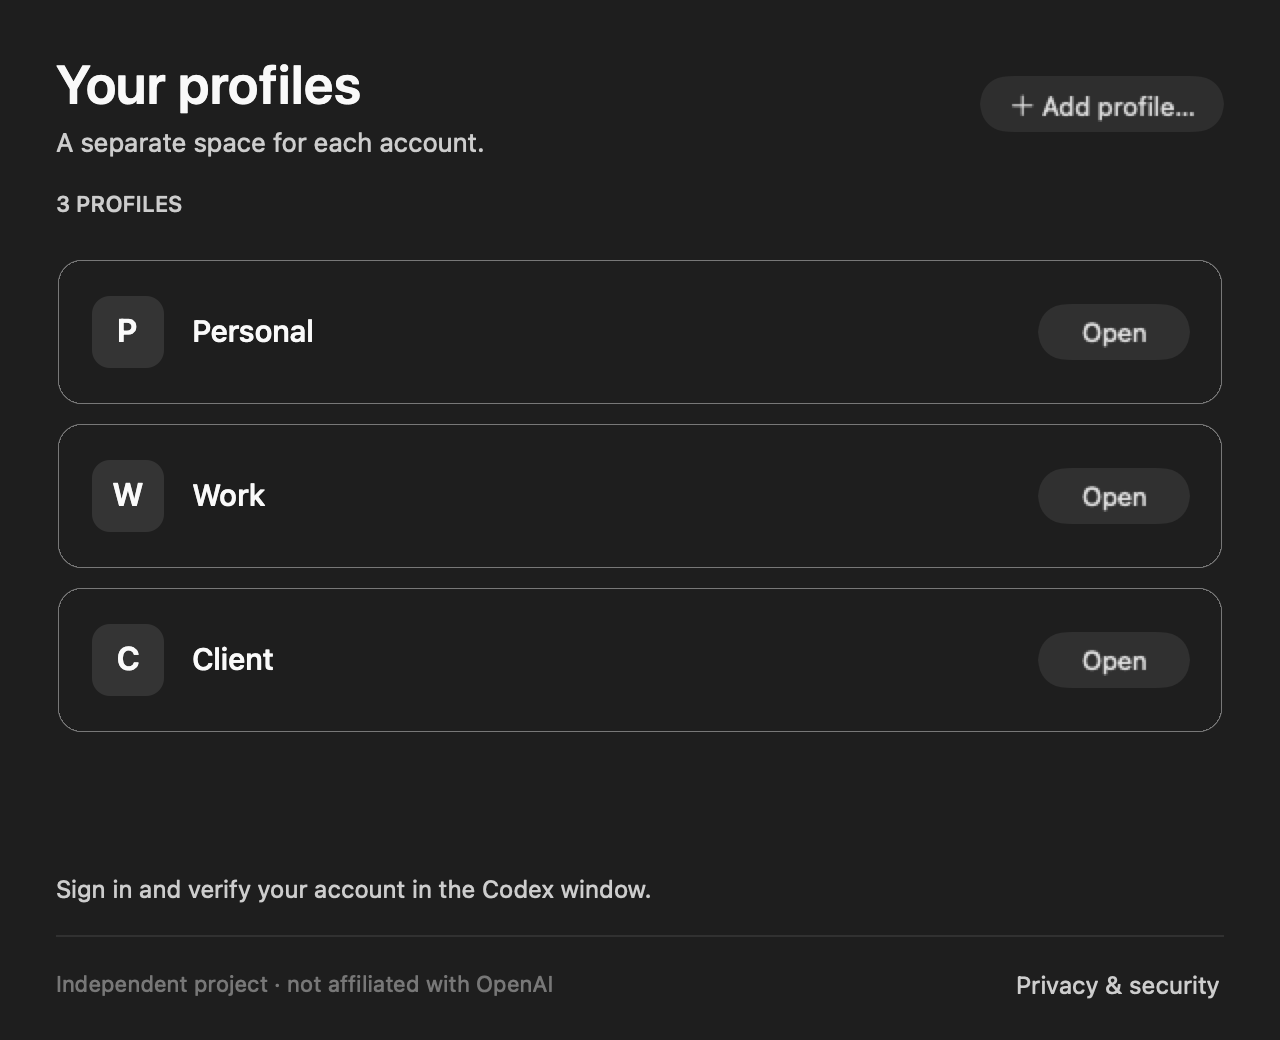
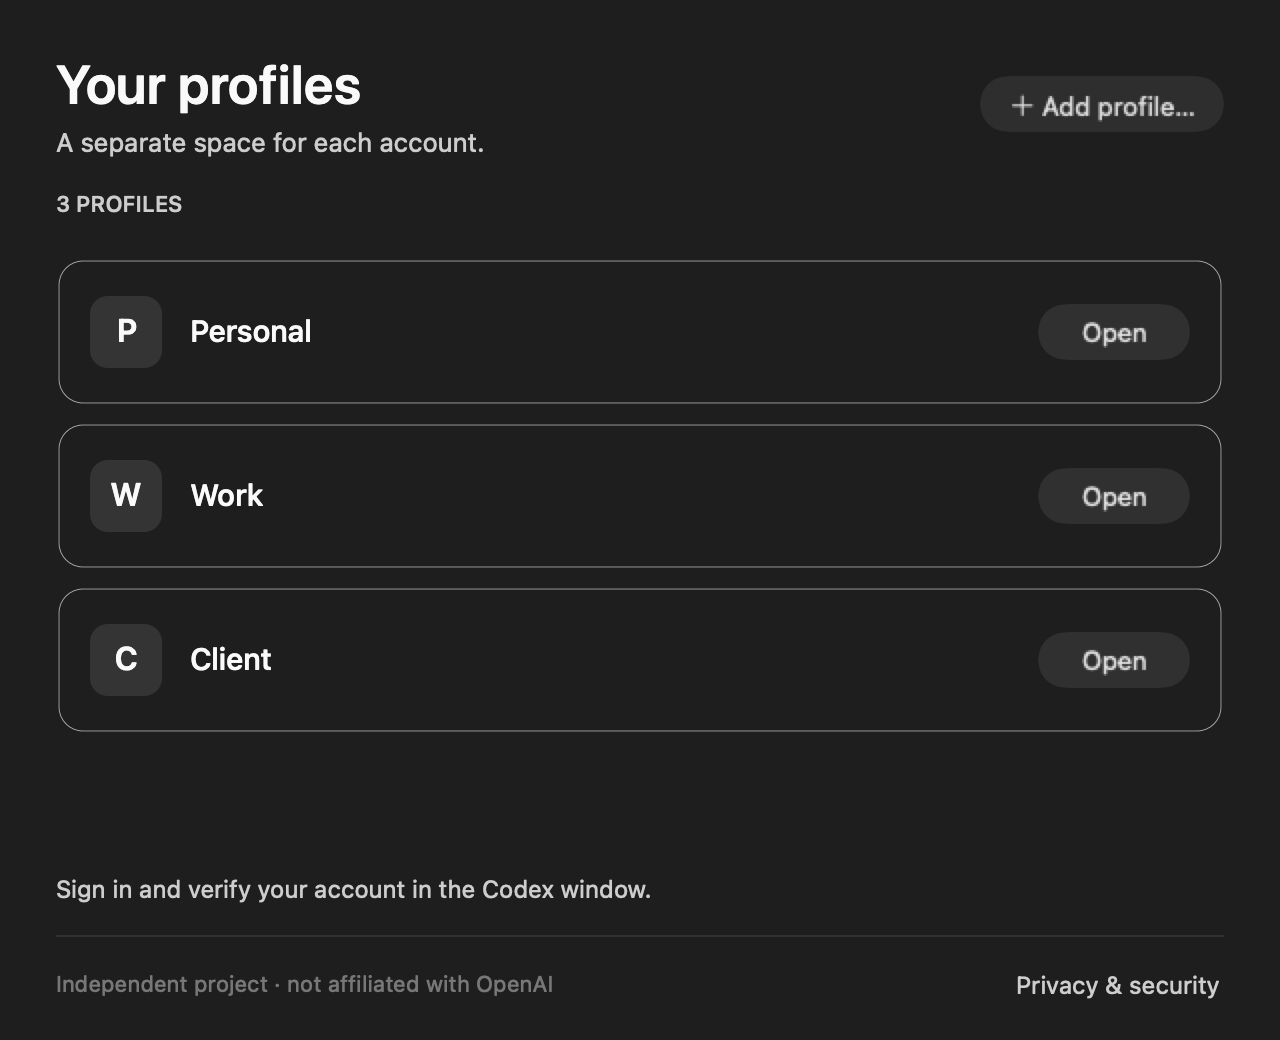
Fix broken native profile borders with an explicit closed frame

diff --git a/Sources/main.swift b/Sources/main.swift
@@ -2,6 +2,24 @@
 import AppKit
 import Security
 
+/// Draw the entire row frame explicitly; NSBox's native border can leave gaps on macOS.
+final class ProfileCardView: NSView {
+    override func draw(_ dirtyRect: NSRect) {
+        super.draw(dirtyRect)
+        let path = NSBezierPath(roundedRect: bounds.insetBy(dx: 0.5, dy: 0.5), xRadius: 12, yRadius: 12)
+        NSColor.controlBackgroundColor.setFill()
+        path.fill()
+        NSColor.separatorColor.withAlphaComponent(0.55).setStroke()
+        path.lineWidth = 0.5
+        path.stroke()
+    }
+
+    override func viewDidChangeEffectiveAppearance() {
+        super.viewDidChangeEffectiveAppearance()
+        needsDisplay = true
+    }
+}
+
 @MainActor
 final class AppDelegate: NSObject, NSApplicationDelegate, NSTableViewDataSource, NSTableViewDelegate {
     var window: NSWindow!
@@ -141,18 +159,14 @@ final class AppDelegate: NSObject, NSApplicationDelegate, NSTableViewDataSource,
     func tableView(_ tableView: NSTableView, viewFor tableColumn: NSTableColumn?, row: Int) -> NSView? {
         let profile = profiles[row]
         let cell = NSTableCellView()
-        let card = NSBox()
-        card.boxType = .custom
-        card.borderWidth = 0.5
-        card.borderColor = .separatorColor.withAlphaComponent(0.4)
-        card.fillColor = .controlBackgroundColor
-        card.cornerRadius = 12
-        card.contentViewMargins = .zero
+        let card = ProfileCardView()
         card.translatesAutoresizingMaskIntoConstraints = false
         cell.addSubview(card)
-        let content = card.contentView!
+        let content = card
         let badge = NSBox()
         badge.boxType = .custom
+        badge.title = ""
+        badge.titlePosition = .noTitle
         badge.borderWidth = 0
         badge.fillColor = .quaternaryLabelColor
         badge.cornerRadius = 9

diff --git a/RELEASE_NOTES.md b/RELEASE_NOTES.md
@@ -1,8 +1,8 @@
 <p align="center">
   <img src="https://raw.githubusercontent.com/dngns/codex-accounts/main/assets/AppIcon.png" width="80" alt="Codex Accounts icon">
 </p>
-<h2 align="center">Your profiles, one click away.</h2>
-<p align="center">Codex Accounts 0.1.4 Preview · Native macOS launcher · Independent of OpenAI</p>
+<h2 align="center">A clean frame for every profile.</h2>
+<p align="center">Codex Accounts 0.1.5 Preview · Native macOS launcher · Independent of OpenAI</p>
 
 ![Native interface render with example profile labels; no accounts connected](https://raw.githubusercontent.com/dngns/codex-accounts/main/assets/showcase.png)
 
@@ -12,8 +12,8 @@ One universal app package for Apple Silicon and Intel build targets. Requires ma
 
 | File | For | Download |
 | :--- | :--- | :--- |
-| **Codex Accounts.app · ZIP** | Use the launcher | [Download universal preview](https://github.com/dngns/codex-accounts/releases/download/v0.1.4-preview.1/Codex-Accounts-preview-universal.zip) |
-| **SHA256SUMS** | Verify archive integrity | [Download checksums](https://github.com/dngns/codex-accounts/releases/download/v0.1.4-preview.1/SHA256SUMS) |
+| **Codex Accounts.app · ZIP** | Use the launcher | [Download universal preview](https://github.com/dngns/codex-accounts/releases/download/v0.1.5-preview.1/Codex-Accounts-preview-universal.zip) |
+| **SHA256SUMS** | Verify archive integrity | [Download checksums](https://github.com/dngns/codex-accounts/releases/download/v0.1.5-preview.1/SHA256SUMS) |
 
 > [!IMPORTANT]
 > **Preview, not notarized.** This package is ad-hoc signed, not Developer ID signed. macOS may block the download. Keep Gatekeeper enabled; do not remove quarantine to run it. A frictionless downloaded double-click release is still pending.
@@ -26,12 +26,11 @@ One universal app package for Apple Silicon and Intel build targets. Requires ma
 2. Choose **Add profile**, enter a label, then click **Open** beside that profile.
 3. Sign in through the official app and verify the email/workspace. Repeat for another account, one sign-in at a time.
 
-## What's new in 0.1.4
+## What's new in 0.1.5
 
-- **Open directly from each profile.** Each row now has its own Open button, with a readable name and a small initial badge. The radio-like markers and separate selection step are removed.
-- **A cleaner native layout.** Consistent spacing, aligned buttons, a useful empty state, and a compact footer support both light and dark appearances.
-- **An attached Add profile sheet.** Add a name without leaving the main window. Open and Add controls are disabled while a launch is in progress.
-- **Safer UI routing.** Buttons resolve the profile by UUID rather than relying on a selected row. Fixture checks cover row reordering, stale buttons, long names, empty state, and busy controls.
+- **Fixed broken profile-row borders.** Profile rows now draw a complete rounded frame directly, instead of relying on NSBox's native border, which left top-edge gaps in the live window.
+- **Same direct Open controls.** The per-profile buttons, attached Add profile sheet and approved double-C icon are retained.
+- **Updated previews.** Native light/dark renders and the README showcase reflect the corrected border configuration.
 
 The launcher still creates separate profile folders, verifies the selected official app's signature, and leaves authentication to that app. It has no built-in networking, telemetry, password form, or token import.
 
@@ -55,4 +54,4 @@ The showcase is a source-derived native UI render with fixture labels, not proof
 
 ---
 
-[Source at this version](https://github.com/dngns/codex-accounts/tree/v0.1.4-preview.1) · [Changes since 0.1.3](https://github.com/dngns/codex-accounts/compare/v0.1.3-preview.1...v0.1.4-preview.1) · [Security](https://github.com/dngns/codex-accounts/blob/main/SECURITY.md) · [Licensing](https://github.com/dngns/codex-accounts/blob/main/LICENSING.md) · [Validation](https://github.com/dngns/codex-accounts/blob/main/VALIDATION.md)
+[Source at this version](https://github.com/dngns/codex-accounts/tree/v0.1.5-preview.1) · [Changes since 0.1.4](https://github.com/dngns/codex-accounts/compare/v0.1.4-preview.1...v0.1.5-preview.1) · [Security](https://github.com/dngns/codex-accounts/blob/main/SECURITY.md) · [Licensing](https://github.com/dngns/codex-accounts/blob/main/LICENSING.md) · [Validation](https://github.com/dngns/codex-accounts/blob/main/VALIDATION.md)

diff --git a/README.md b/README.md
@@ -9,14 +9,14 @@
   <img src="assets/badge-macos.svg" alt="macOS 13 or later · universal binary">
 </p>
 <p align="center">
-  <a href="https://github.com/dngns/codex-accounts/releases/tag/v0.1.4-preview.1"><img src="assets/download.svg" width="256" alt="Download macOS preview"></a>
+  <a href="https://github.com/dngns/codex-accounts/releases/tag/v0.1.5-preview.1"><img src="assets/download.svg" width="256" alt="Download macOS preview"></a>
 </p>
 <p align="center">
   <a href="#get-started">Get started</a> · <a href="#your-login-stays-with-the-official-app">Privacy</a> · <a href="docs/TECHNICAL.md">Technical docs</a> · <a href="docs/README.vi.md">Tiếng Việt</a>
 </p>
 
 > [!IMPORTANT]
-> **Experimental preview · independent of OpenAI.** The download is not notarized and macOS may block it. [Read the release notes](https://github.com/dngns/codex-accounts/releases/tag/v0.1.4-preview.1) before downloading. Do not disable Gatekeeper to run it.
+> **Experimental preview · independent of OpenAI.** The download is not notarized and macOS may block it. [Read the release notes](https://github.com/dngns/codex-accounts/releases/tag/v0.1.5-preview.1) before downloading. Do not disable Gatekeeper to run it.
 
 ![Codex Accounts native UI render with three example labels: Personal, Work and Client](assets/showcase.png)
 <p align="center"><sub>Rendered from the app's native interface with example labels. No real accounts are connected or shown.</sub></p>
@@ -43,8 +43,8 @@ You can move **Codex Accounts.app** into Applications. This launcher does not im
 
 | Package | Platform | Download |
 | :--- | :--- | :--- |
-| **0.1.4 Preview · Universal ZIP** | macOS 13+ · Apple Silicon and Intel build targets | [Download app](https://github.com/dngns/codex-accounts/releases/download/v0.1.4-preview.1/Codex-Accounts-preview-universal.zip) |
-| **SHA-256 checksums** | Verify archive integrity | [Download SHA256SUMS](https://github.com/dngns/codex-accounts/releases/download/v0.1.4-preview.1/SHA256SUMS) |
+| **0.1.5 Preview · Universal ZIP** | macOS 13+ · Apple Silicon and Intel build targets | [Download app](https://github.com/dngns/codex-accounts/releases/download/v0.1.5-preview.1/Codex-Accounts-preview-universal.zip) |
+| **SHA-256 checksums** | Verify archive integrity | [Download SHA256SUMS](https://github.com/dngns/codex-accounts/releases/download/v0.1.5-preview.1/SHA256SUMS) |
 
 **Before you install:** the official Codex app is required. This preview is ad-hoc signed, not Developer ID signed or notarized. Intel runtime, full multi-account login, and clean-Mac download acceptance are still pending. [Validation record →](VALIDATION.md)
 

diff --git a/docs/README.vi.md b/docs/README.vi.md
@@ -1,6 +1,6 @@
 # Codex Accounts
 
-[English](../README.md) · [Tải bản preview](https://github.com/dngns/codex-accounts/releases/tag/v0.1.4-preview.1)
+[English](../README.md) · [Tải bản preview](https://github.com/dngns/codex-accounts/releases/tag/v0.1.5-preview.1)
 
 **Mỗi tài khoản một profile riêng.** Launcher nhỏ cho macOS, dùng cùng ứng dụng Codex chính thức.
 
@@ -15,14 +15,14 @@
 
 ![Đặt tên profile, mở profile và đăng nhập trong app chính thức](../assets/quickstart.png)
 
-1. Cài app Codex chính thức từ OpenAI. Tải và giải nén launcher từ [Releases](https://github.com/dngns/codex-accounts/releases/tag/v0.1.4-preview.1).
+1. Cài app Codex chính thức từ OpenAI. Tải và giải nén launcher từ [Releases](https://github.com/dngns/codex-accounts/releases/tag/v0.1.5-preview.1).
 2. Mở **Codex Accounts.app** → **Add profile**, đặt tên như Personal hoặc Work → nhấn **Open** cạnh profile đó.
 3. Đăng nhập trong app chính thức, kiểm tra email/workspace. Lặp lại cho tài khoản khác; đăng nhập lần lượt từng profile mới.
 
 | Tải về | Dành cho |
 | --- | --- |
-| [App dạng Universal ZIP](https://github.com/dngns/codex-accounts/releases/download/v0.1.4-preview.1/Codex-Accounts-preview-universal.zip) | macOS 13+; có binary Apple Silicon và Intel |
-| [SHA256SUMS](https://github.com/dngns/codex-accounts/releases/download/v0.1.4-preview.1/SHA256SUMS) | Kiểm tra tính toàn vẹn file tải xuống |
+| [App dạng Universal ZIP](https://github.com/dngns/codex-accounts/releases/download/v0.1.5-preview.1/Codex-Accounts-preview-universal.zip) | macOS 13+; có binary Apple Silicon và Intel |
+| [SHA256SUMS](https://github.com/dngns/codex-accounts/releases/download/v0.1.5-preview.1/SHA256SUMS) | Kiểm tra tính toàn vẹn file tải xuống |
 
 Intel runtime, toàn bộ luồng đăng nhập nhiều tài khoản và tải/mở trên máy Mac sạch vẫn cần kiểm thử thêm. Xem [ghi nhận kiểm thử](../VALIDATION.md).
 

diff --git a/VALIDATION.md b/VALIDATION.md
@@ -1,5 +1,11 @@
 # Validation record — 0.1.0 preview
 
+## 0.1.5 native row-border fix — 2026-11-14
+
+- Confirmed the broken top edge in the live Dark Mode fixture window. Disabling NSBox's title region alone did not resolve it, so profile rows now use a small NSView that fills and strokes one closed rounded path using semantic system colors.
+- Verified the complete top/side/bottom borders in the live native window after rebuilding; closed both old and new fixture windows after testing.
+- Regenerated light/dark screenshots and passed the existing eight UI fixture checks. The profile UUID routing and storage/authentication logic are unchanged.
+
 ## 0.1.4 direct profile actions — 2026-11-13
 
 - Replaced radio-like list markers and the shared Open selected action with named profile rows and per-row Open buttons. Button targets resolve UUIDs; selection state is not used to launch profiles.
